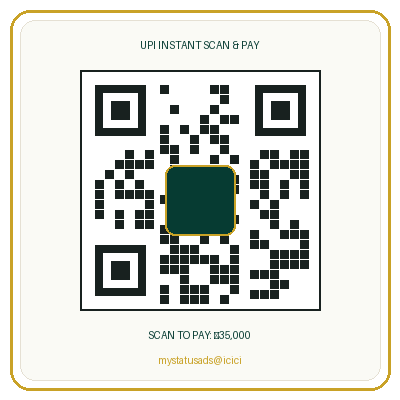
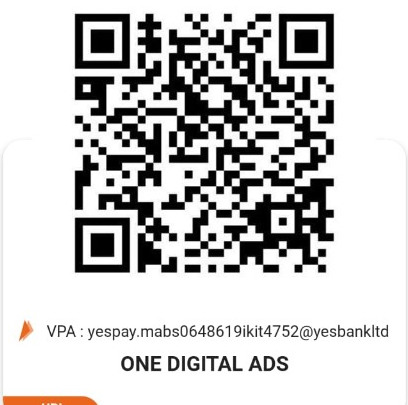
feat: update UPI payment QR code and merchant credentials to ONE DIGITAL ADS

diff --git a/frontend/src/components/modals/PurchaseModal.tsx b/frontend/src/components/modals/PurchaseModal.tsx
@@ -330,8 +330,8 @@ export const PurchaseModal: React.FC<PurchaseModalProps> = ({ isOpen, onClose })
                   {paymentMethod === 'UPI_TRANSFER' && (
                     <UpiQrPaymentCard
                       amount={statusData?.package?.price || 35400}
-                      upiId={statusData?.upi_details?.upi_id || 'mystatusads@icici'}
-                      payeeName={statusData?.upi_details?.payee_name || recipient?.full_name || 'MyStatus Platform'}
+                      upiId={statusData?.upi_details?.upi_id || 'yespay.mabs0648619ikit4752@yesbankltd'}
+                      payeeName={statusData?.upi_details?.payee_name || recipient?.full_name || 'ONE DIGITAL ADS'}
                       transactionNote={`Package Activation ${user?.user_code || ''}`}
                       customQrImageUrl={statusData?.upi_details?.qr_image_url || '/payment-qr.png'}
                       packageTitle={statusData?.package?.name || 'Premium Sub Franchise (₹35,400)'}

diff --git a/frontend/src/components/modals/PinWalletModal.tsx b/frontend/src/components/modals/PinWalletModal.tsx
@@ -590,8 +590,8 @@ export const PinWalletModal: React.FC<PinWalletModalProps> = ({
                 {paymentMethod === 'UPI_TRANSFER' && (
                   <UpiQrPaymentCard
                     amount={totalBuyPrice}
-                    upiId="mystatusads@icici"
-                    payeeName="MyStatus Platform"
+                    upiId="yespay.mabs0648619ikit4752@yesbankltd"
+                    payeeName="ONE DIGITAL ADS"
                     transactionNote={`PIN Purchase (${effectiveBuyQty} PINs)`}
                     customQrImageUrl="/payment-qr.png"
                     packageTitle={`Security PIN Order (${effectiveBuyQty} PINs)`}

diff --git a/frontend/src/components/common/UpiQrPaymentCard.tsx b/frontend/src/components/common/UpiQrPaymentCard.tsx
@@ -24,8 +24,8 @@ interface UpiQrPaymentCardProps {
 
 export const UpiQrPaymentCard: React.FC<UpiQrPaymentCardProps> = ({
   amount = 35400,
-  upiId = 'mystatusads@icici',
-  payeeName = 'MyStatus Platform',
+  upiId = 'yespay.mabs0648619ikit4752@yesbankltd',
+  payeeName = 'ONE DIGITAL ADS',
   transactionNote = 'Sub Franchise Package Activation',
   customQrImageUrl = '/payment-qr.png',
   packageTitle = 'Premium Sub Franchise (₹35,400)'

diff --git a/backend/app/config.py b/backend/app/config.py
@@ -89,8 +89,8 @@ class Settings(BaseSettings):
     INITIAL_ADMIN_NAME: str = os.getenv("INITIAL_ADMIN_NAME", "System Admin")
 
     # Company Payment & UPI Configuration
-    COMPANY_UPI_ID: str = os.getenv("COMPANY_UPI_ID", "mystatusads@icici")
-    COMPANY_UPI_NAME: str = os.getenv("COMPANY_UPI_NAME", "MyStatus Platform")
+    COMPANY_UPI_ID: str = os.getenv("COMPANY_UPI_ID", "yespay.mabs0648619ikit4752@yesbankltd")
+    COMPANY_UPI_NAME: str = os.getenv("COMPANY_UPI_NAME", "ONE DIGITAL ADS")
 
     # Flag to permit SQLite in production (e.g. Render/demo environments without Postgres)
     ALLOW_SQLITE_IN_PROD: bool = os.getenv("ALLOW_SQLITE_IN_PROD", "true").lower() in ("true", "1", "yes")

diff --git a/backend/app/routers/activation.py b/backend/app/routers/activation.py
@@ -125,8 +125,8 @@ def get_activation_status(
         'activation_request': latest_req.to_dict() if latest_req else None,
         'payment_recipient': recipient_info,
         'upi_details': {
-            'upi_id': getattr(settings, 'COMPANY_UPI_ID', 'mystatusads@icici'),
-            'payee_name': getattr(settings, 'COMPANY_UPI_NAME', 'MyStatus Platform'),
+            'upi_id': getattr(settings, 'COMPANY_UPI_ID', 'yespay.mabs0648619ikit4752@yesbankltd'),
+            'payee_name': getattr(settings, 'COMPANY_UPI_NAME', 'ONE DIGITAL ADS'),
             'amount': package.price if package else 35400.0,
             'qr_image_url': '/payment-qr.png'
         },
